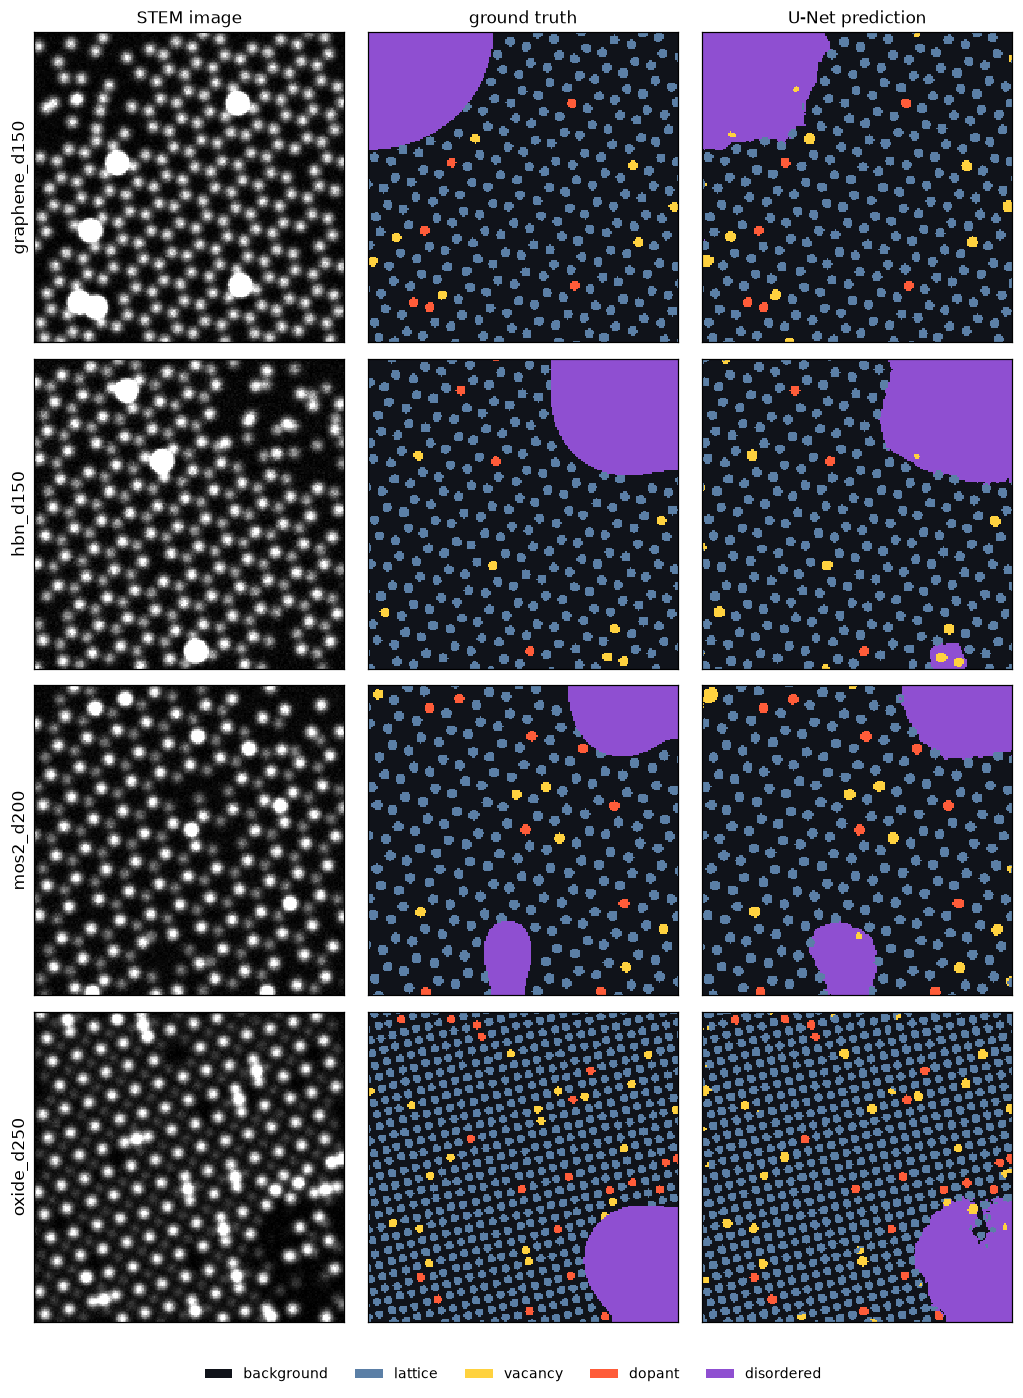
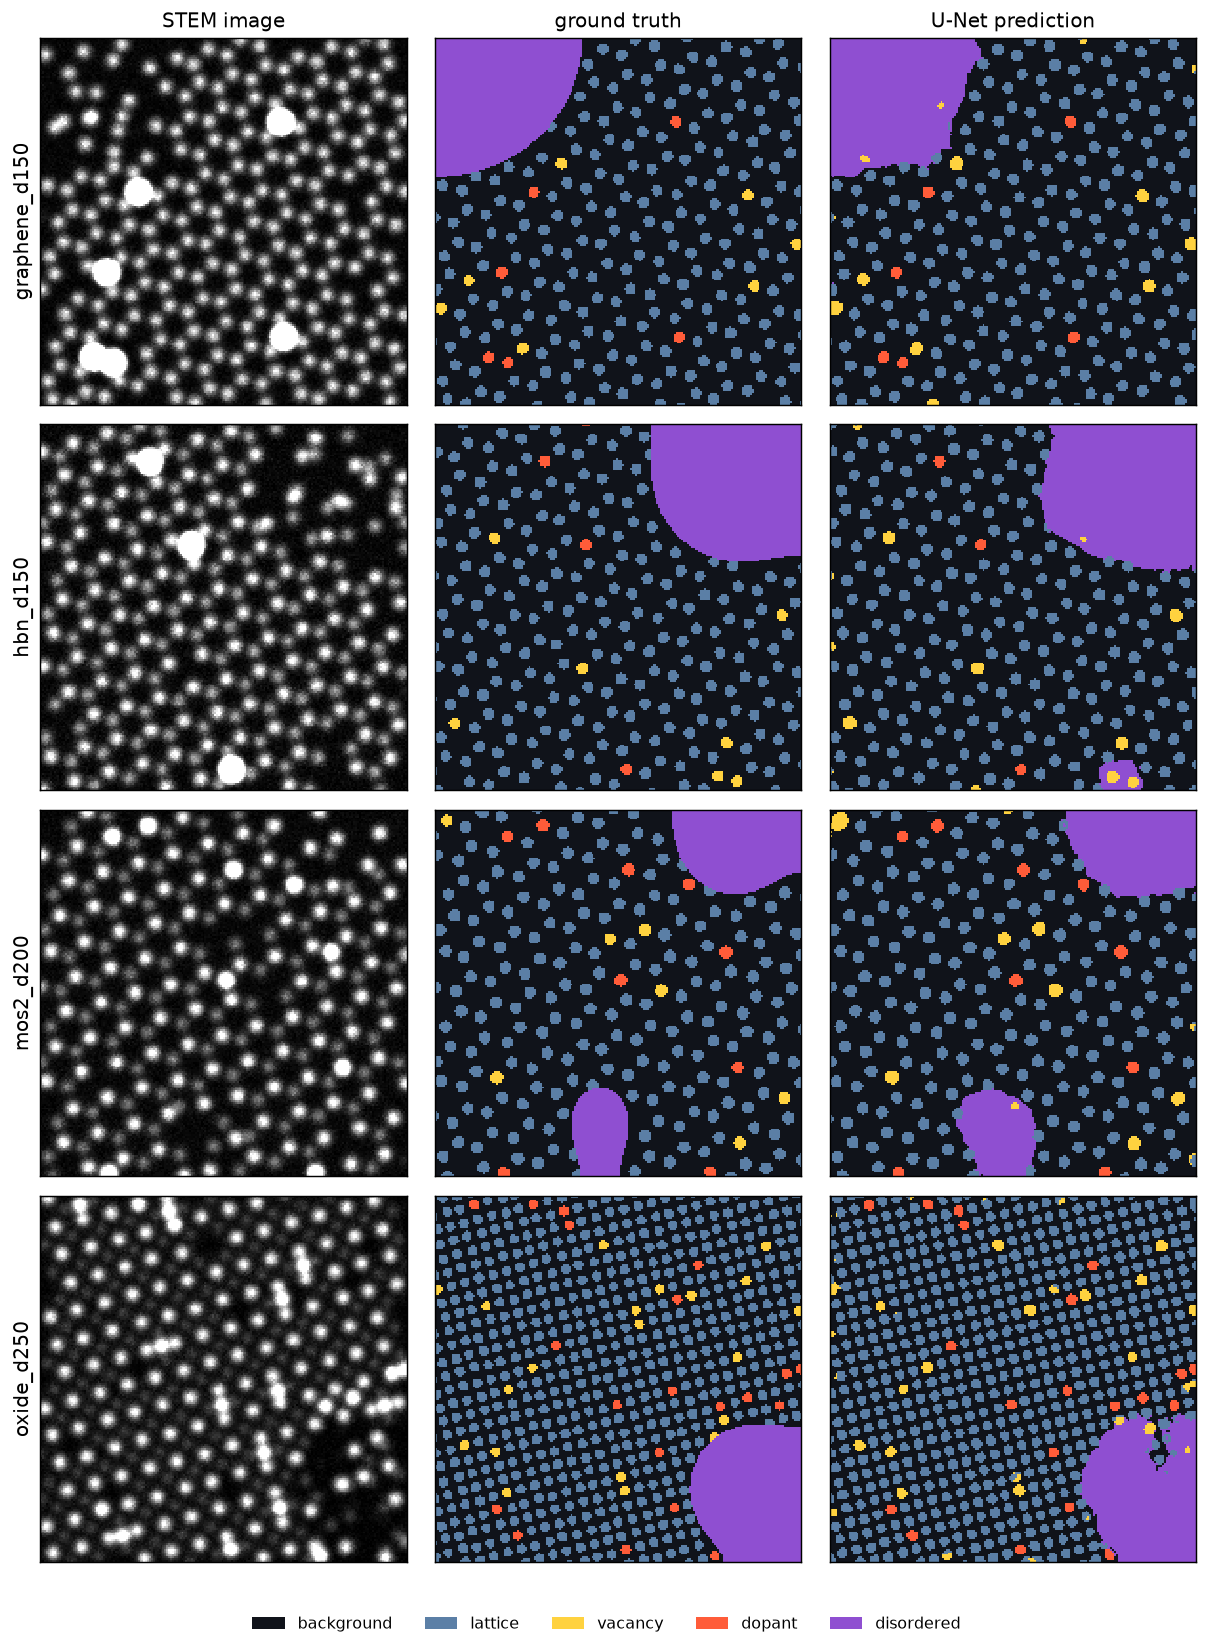
Re-export segmentation gallery at higher dpi as RGB
Render the gallery hero at dpi 130 so its short side clears 1080 px for
social posts, and save as RGB (drop the opaque alpha channel). The U-Net
predictions, layout, colormaps and fonts are unchanged (verified pixel
identical to the previous figure at matched dpi). No data, results, or
metrics change.

diff --git a/scripts/make_figures.py b/scripts/make_figures.py
@@ -34,7 +34,9 @@ def make_gallery() -> None:
     for name, *_ in SAMPLES:
         sample = load_sample(ROOT / "data" / "sample" / f"{name}.npz")
         rows.append((name, sample.image, sample.labels, predict(sample.image)))
-    gallery(rows, ROOT / "figures" / "gallery.png")
+    # Higher dpi so the short side clears 1080 px for social posts; the
+    # layout, colormaps and fonts are unchanged.
+    gallery(rows, ROOT / "figures" / "gallery.png", dpi=130)
     print("saved figures/gallery.png")
 
 